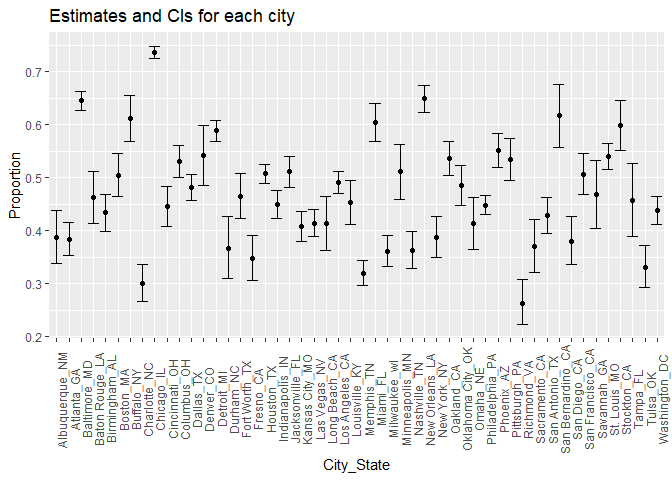
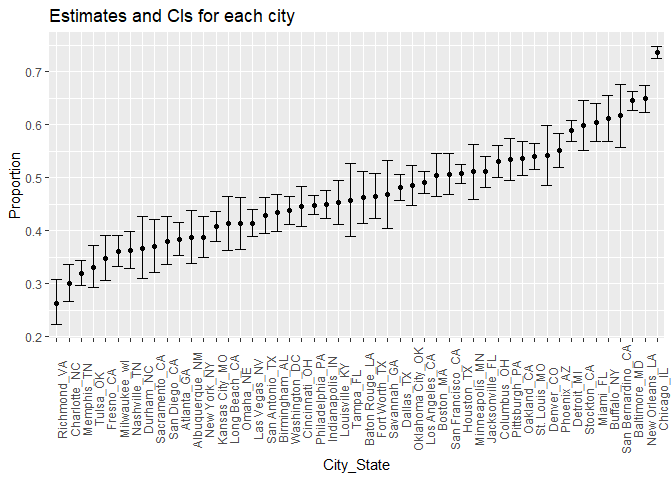
updating final

diff --git a/p8105_hw5_zx2425.md b/p8105_hw5_zx2425.md
@@ -427,7 +427,8 @@ Tulsa_AL, we delete it can replot again.
 city_iterate = city_iterate %>% 
   filter(city_state !="Tulsa_AL")
 city_iterate %>% 
-  ggplot(aes(x = city_state, y = estimate)) +
+  mutate(city_state = fct_reorder(city_state, estimate)) %>% 
+  ggplot(aes(x = city_state, y = estimate,.desc=F)) +
   geom_point() +
   geom_errorbar(aes(ymin = conf.low, ymax = conf.high)) +
   labs(
@@ -480,7 +481,7 @@ t_test(0)
     ## # A tibble: 1 × 2
     ##   estimate p.value
     ##      <dbl>   <dbl>
-    ## 1     1.28  0.0821
+    ## 1    -1.09   0.240
 
 ``` r
 sim_results_df = 
@@ -507,18 +508,18 @@ mean_16result
 ```
 
     ## # A tibble: 30,000 × 4
-    ##    mean_16 iteration estimate  p.value
-    ##      <int>     <int>    <dbl>    <dbl>
-    ##  1       1         1  -1.04   0.282   
-    ##  2       1         2   2.83   0.000364
-    ##  3       1         3   2.35   0.00261 
-    ##  4       1         4   0.152  0.849   
-    ##  5       1         5   1.52   0.150   
-    ##  6       1         6   0.0111 0.990   
-    ##  7       1         7   1.82   0.0154  
-    ##  8       1         8   1.70   0.0211  
-    ##  9       1         9   1.33   0.101   
-    ## 10       1        10   1.98   0.0750  
+    ##    mean_16 iteration estimate p.value
+    ##      <int>     <int>    <dbl>   <dbl>
+    ##  1       1         1   -0.946  0.233 
+    ##  2       1         2    1.34   0.156 
+    ##  3       1         3    1.59   0.138 
+    ##  4       1         4    0.978  0.344 
+    ##  5       1         5   -0.194  0.829 
+    ##  6       1         6    0.703  0.405 
+    ##  7       1         7    1.21   0.225 
+    ##  8       1         8    1.41   0.168 
+    ##  9       1         9    1.70   0.0604
+    ## 10       1        10    0.626  0.450 
     ## # … with 29,990 more rows
 
 ``` r
@@ -644,6 +645,7 @@ geom_point(data = rej_eti_u,colour = "black")
 ```
 
 ![](p8105_hw5_zx2425_files/figure-gfm/unnamed-chunk-17-1.png)<!-- -->
+
 From the plot we can see, the line is combined after mu\>=4. and the
 average value of rejected estimates data set is larger than the all
 estimates data set when mmu\<4. This shows that before mu is less than
